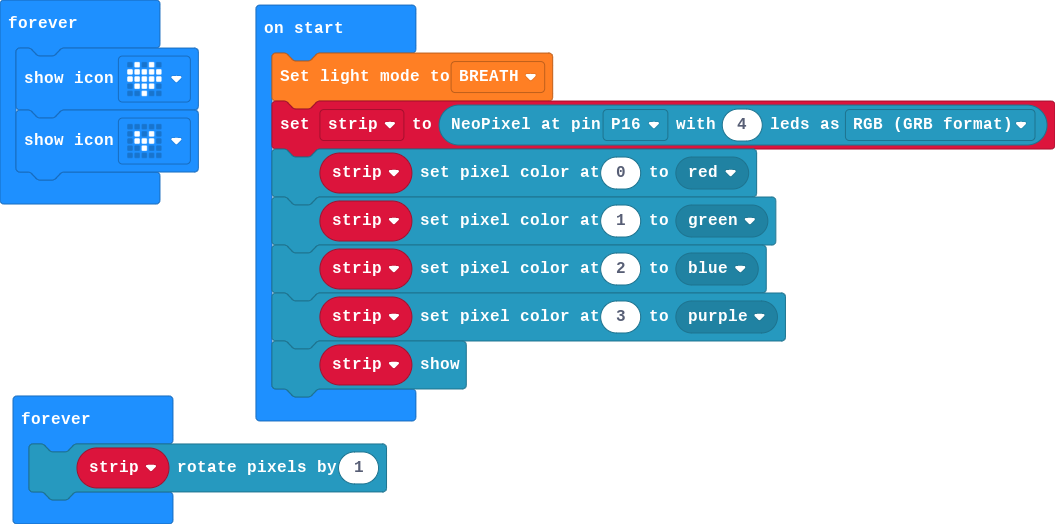
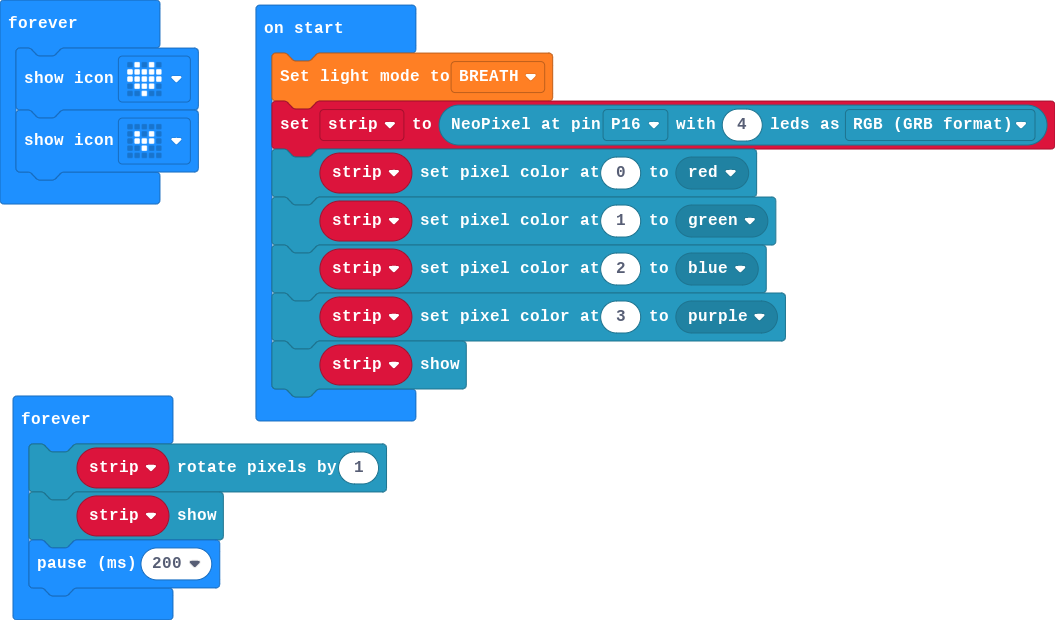
Update main.blocks, main.ts

Changed region(s): [[0.0, 0.0, 1.0, 0.9771], [0.0, 0.0305, 0.2123, 0.3969]]

diff --git a/main.ts b/main.ts
@@ -11,4 +11,6 @@ basic.forever(function () {
 })
 basic.forever(function () {
     strip.rotate(1)
+    strip.show()
+    basic.pause(200)
 })
